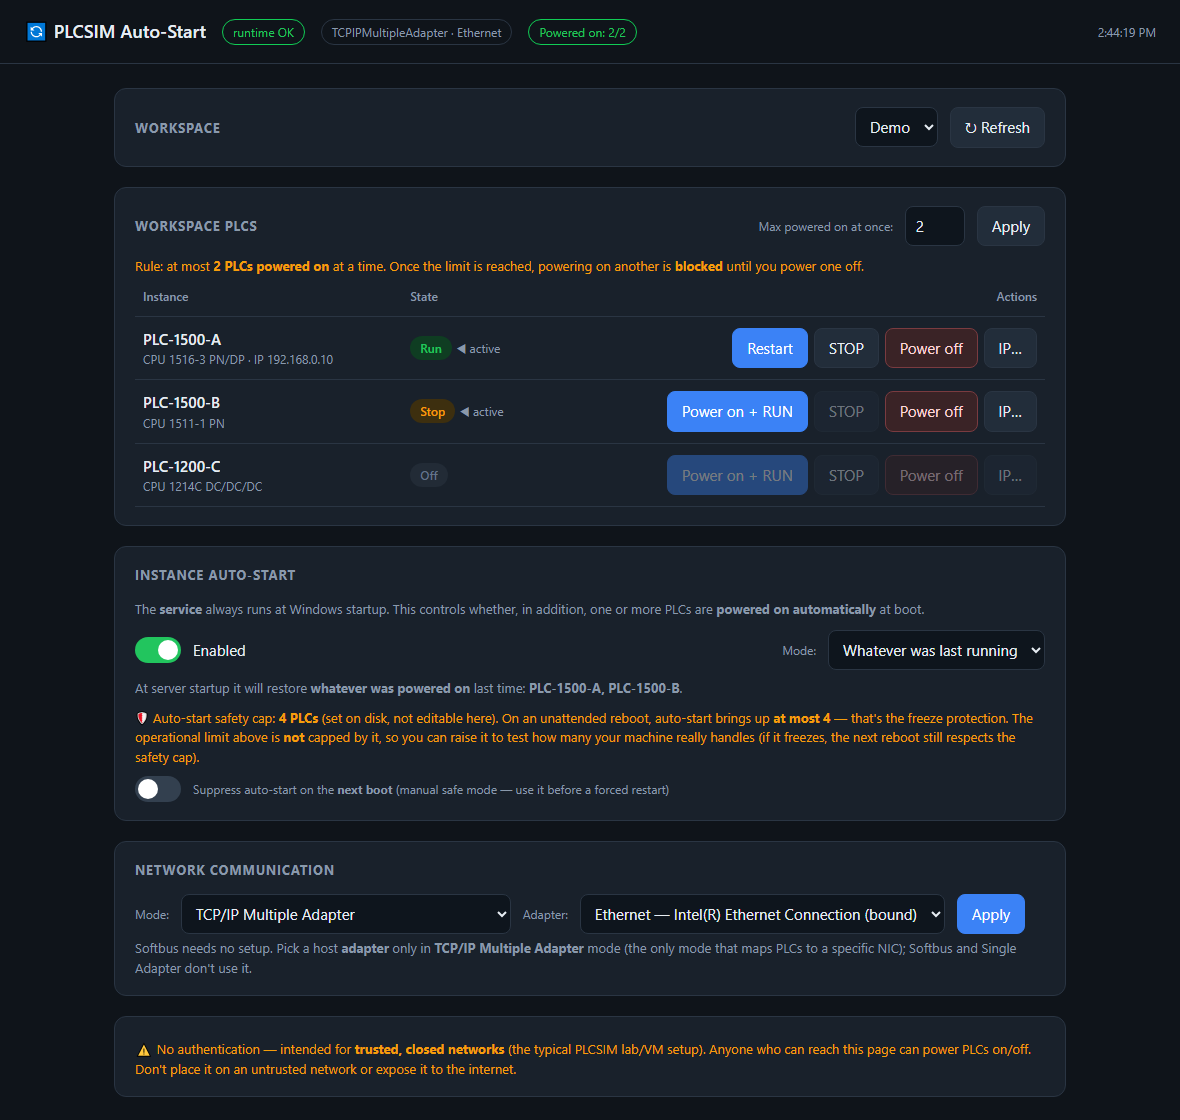
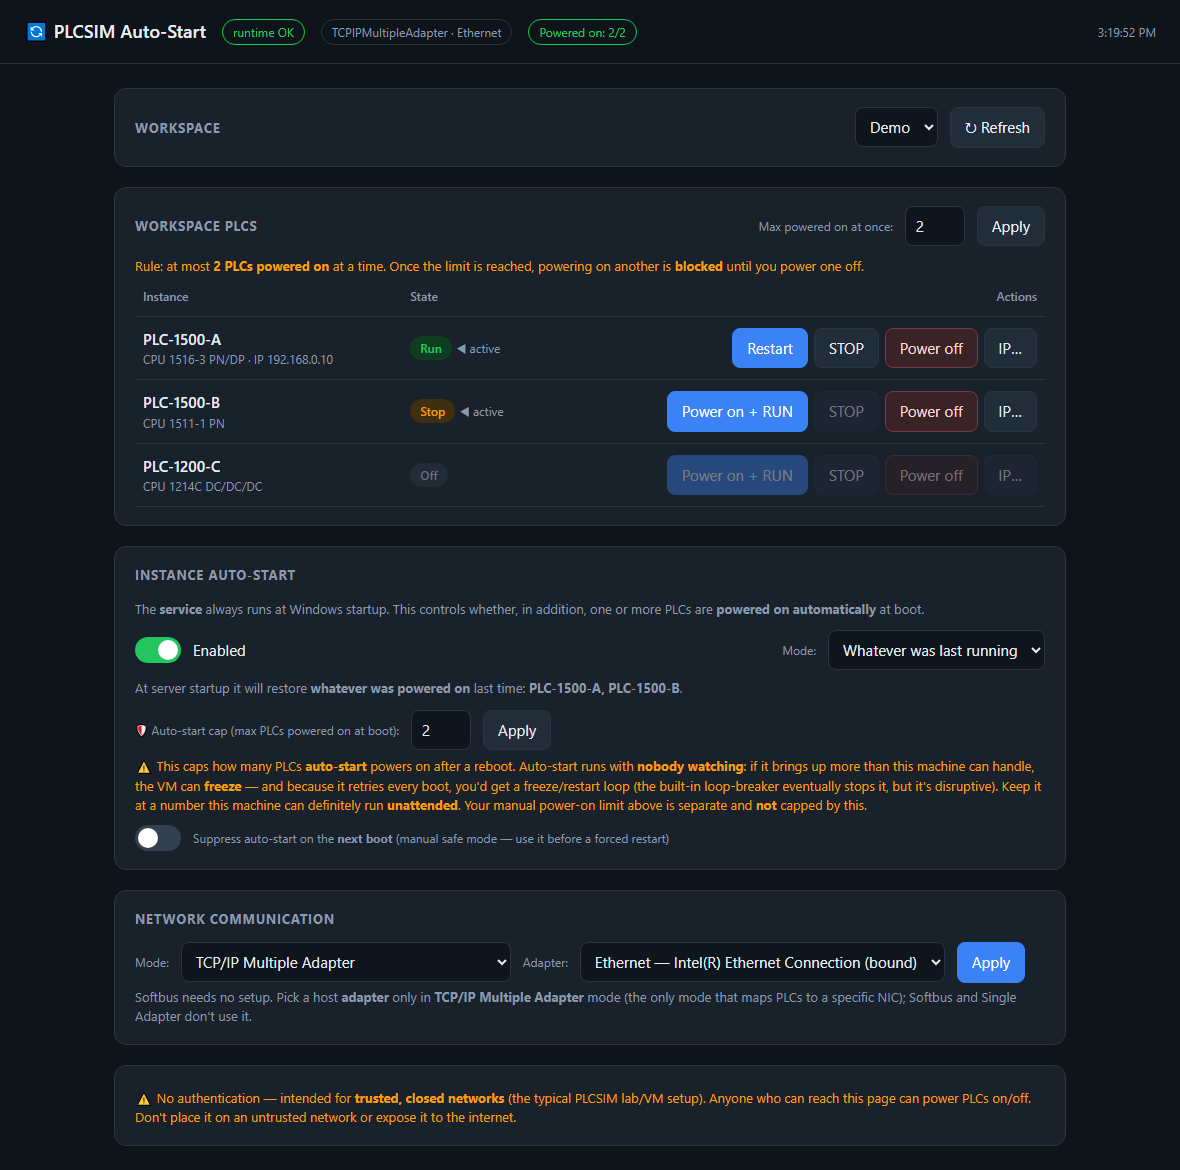
Make the auto-start cap editable in the UI (with a warning explaining the freeze-loop risk); reduce GUI mentions in README to one

diff --git a/wwwroot/index.html b/wwwroot/index.html
@@ -111,7 +111,12 @@
       <select id="asInstance"></select>
     </div>
     <div class="note" id="asNote" style="margin-top:8px"></div>
-    <div class="note warn" id="hardNote" style="margin-top:10px"></div>
+    <div class="row" style="margin-top:12px">
+      <label class="sub">🛡️ Auto-start cap (max PLCs powered on at boot):</label>
+      <input id="hardOn" type="number" min="1" max="20" style="width:60px">
+      <button id="hardSave">Apply</button>
+    </div>
+    <div class="note warn" id="hardNote" style="margin-top:6px"></div>
     <div class="row" style="margin-top:10px">
       <label class="toggle"><input type="checkbox" id="suppressNext"><span></span></label>
       <span class="sub">Suppress auto-start on the <b>next boot</b> (manual safe mode — use it before a forced restart)</span>
@@ -235,7 +240,8 @@ function renderControls(){
   $('#asNote').innerHTML = (mode==='fixed')
     ? 'At server startup it will always start the selected fixed instance.'
     : ('At server startup it will restore <b>whatever was powered on</b> last time'+(last.length?': <b>'+last.join(', ')+'</b>':' (right now: none)')+'.');
-  $('#hardNote').innerHTML = `🛡️ Auto-start safety cap: <b>${hard} PLCs</b> (set on disk, not editable here). On an unattended reboot, auto-start brings up <b>at most ${hard}</b> — that's the freeze protection. The operational limit above is <b>not</b> capped by it, so you can raise it to test how many your machine really handles (if it freezes, the next reboot still respects the safety cap).`;
+  const ho=$('#hardOn'); if(document.activeElement!==ho) ho.value = hard;
+  $('#hardNote').innerHTML = `⚠️ This caps how many PLCs <b>auto-start</b> powers on after a reboot. Auto-start runs with <b>nobody watching</b>: if it brings up more than this machine can handle, the VM can <b>freeze</b> — and because it retries every boot, you'd get a freeze/restart loop (the built-in loop-breaker eventually stops it, but it's disruptive). Keep it at a number this machine can definitely run <b>unattended</b>. Your manual power-on limit above is separate and <b>not</b> capped by this.`;
   if(document.activeElement!==$('#suppressNext')) $('#suppressNext').checked = !!S.suppressNextBoot;
 
   // network
@@ -266,6 +272,11 @@ $('#asEnabled').onchange = saveAutostart;
 $('#asInstance').onchange = saveAutostart;
 $('#asMode').onchange = () => { $('#asInstance').style.display = ($('#asMode').value==='fixed')?'':'none'; saveAutostart(); };
 $('#maxSave').onclick = async () => { const r=await api('limit',{max:Number($('#maxOn').value)||1}); toast(r.message,r.ok); await load(); };
+$('#hardSave').onclick = async () => {
+  const v = Number($('#hardOn').value)||1, cur = S.hardMaxPoweredOn||1;
+  if (v > cur && !confirm(`Raise the auto-start cap to ${v}?\n\nAfter every reboot, auto-start will try to power on up to ${v} PLCs with nobody watching. If that's more than this machine can run unattended, it can freeze on boot. Continue?`)) { $('#hardOn').value = cur; return; }
+  const r = await api('autostart-cap', {max: v}); toast(r.message, r.ok); await load();
+};
 $('#safeClear').onclick = async () => { const r=await api('clear-safemode',{}); toast(r.message,r.ok); await load(); };
 $('#suppressNext').onchange = async e => { const r=await api('safemode',{enabled:e.target.checked}); toast(r.message,r.ok); await load(); };
 $('#netMode').onchange = () => { $('#adapterWrap').style.display = ($('#netMode').value==='TCPIPMultipleAdapter') ? 'inline-flex' : 'none'; };

diff --git a/src/PlcsimAutoStart.cs b/src/PlcsimAutoStart.cs
@@ -10,7 +10,7 @@
 //   * Web UI listing the PLCs of a PLCSIM workspace (Documents\PLCSIM\<workspace>).
 //   * Power on / Run / Stop / Power off from the browser.
 //   * Configurable LIMIT of how many instances may be powered on at once (default 1), with a
-//     separate disk-only HARD safety cap that the web UI can never exceed.
+//     separate auto-start safety cap (editable in the UI, with a warning) for how many auto-start brings up at boot.
 //   * Per-instance auto-start at boot. Mode "last" restores whatever was running before the
 //     last shutdown; mode "fixed" always starts one chosen instance.
 //   * Boot protections against a freeze/restart loop: a boot-attempt counter that only resets
@@ -223,7 +223,7 @@ internal sealed class Config
     public string AutostartMode = "last";   // last = restore the set last powered on | fixed = use AutostartInstance
     public string AutostartInstance = "";
     public int MaxPoweredOn = 1;             // OPERATIONAL limit, editable from the web UI
-    public int HardMaxPoweredOn = 1;         // auto-start safety cap (disk-only): max instances auto-start brings up at boot
+    public int HardMaxPoweredOn = 1;         // auto-start safety cap (editable in UI w/ warning): max instances auto-start brings up at boot
     public int BootFailLimit = 2;            // consecutive non-stabilizing boots before entering SAFE MODE
     public int StableSeconds = 90;           // stability window after auto-start to declare a "clean boot"
     public int StartStaggerMs = 4000;        // pause between power-ons during staggered auto-start
@@ -1008,6 +1008,16 @@ internal sealed class WebServer
                     string msg = "operational power-on limit = " + newMax;
                     if (newMax > _cfg.HardMaxPoweredOn) msg += " (above the autostart safety cap " + _cfg.HardMaxPoweredOn + " - fine for manual testing; auto-start still restores at most " + _cfg.HardMaxPoweredOn + ")";
                     WriteResult(ctx, ActionResult.Good(msg));
+                    return;
+                }
+            case "autostart-cap":
+                {
+                    int newHard = _cfg.HardMaxPoweredOn;
+                    if (body != null && body.ContainsKey("max")) { try { newHard = Convert.ToInt32(body["max"]); } catch { } }
+                    else if (!string.IsNullOrEmpty(q["max"])) int.TryParse(q["max"], out newHard);
+                    if (newHard < 1) newHard = 1;
+                    _cfg.HardMaxPoweredOn = newHard; _cfg.Save();
+                    WriteResult(ctx, ActionResult.Good("Auto-start cap = " + newHard + " (auto-start brings up at most " + newHard + " PLC" + (newHard == 1 ? "" : "s") + " after a reboot)"));
                     return;
                 }
             case "safemode":

diff --git a/README.md b/README.md
@@ -9,10 +9,10 @@ replace it. You still create and configure your virtual PLCs in the Siemens PLCS
 usual; PLCSIM Auto-Start reads that workspace and adds what the GUI doesn't give you:
 
 - 🔄 **Automatic startup** — your PLCs come back up on their own after a server reboot, completely
-  unattended. This is the headline: the Siemens GUI has no way to do it.
+  unattended. This is the headline feature.
 - 🌐 **Remote control from a browser** — power on, RUN, STOP and power off your PLCs from any machine
-  on the network. Drive a simulation host from your own desktop or another VM, with no Siemens GUI and
-  no remote-desktop session required.
+  on the network. Manage a headless simulation host from your own desktop or another VM, with no
+  remote-desktop session needed.
 - 💾 **Persistent by default** — every instance is registered against PLCSIM's persistent storage, so a
   PLC's downloaded program survives a restart. Combined with auto-start, a PLC comes back on its own
   after a reboot — nothing to re-open, nothing to re-download from TIA.
@@ -27,8 +27,9 @@ usual; PLCSIM Auto-Start reads that workspace and adds what the GUI doesn't give
 
 Beyond remote control and auto-start:
 
-- **Power-on limit** (default **1**, freely adjustable in the UI to test capacity) plus a disk-only
-  **hard cap** that bounds the **auto-start** count — the freeze protection for unattended reboots.
+- **Power-on limit** (default **1**, freely adjustable in the UI to test capacity) plus an
+  **auto-start cap** (editable in the UI, with a warning) that bounds how many PLCs auto-start brings
+  up at boot — the freeze protection for unattended reboots.
 - **Per-PLC IP override**, re-applied on every power-on, so a PLC stays reachable on your subnet.
 - **Network mode**: Softbus (zero-config) or TCP/IP mapped to a host adapter.
 - **Installs as a Windows Service** you Start/Stop from `services.msc` / Task Manager. (Because PLCSIM
@@ -85,7 +86,7 @@ the background; you normally never see them.
 
 **Power-on limit + hard cap.** `max_powered_on` (UI-editable) is the operational limit for *manual*
 power-ons — it is **not** capped by the hard cap, so you can raise it to discover how many PLCs your
-machine really handles. `hard_max_powered_on` (disk-only) limits only the **auto-start** count: after
+machine really handles. `hard_max_powered_on` (editable in the UI, with a warning) limits only the **auto-start** count: after
 an unattended reboot, auto-start restores at most that many — so even if a manual test froze the box,
 the next boot stays within the safe number.
 

diff --git a/CHANGELOG.md b/CHANGELOG.md
@@ -14,8 +14,8 @@ First public release.
   the last shutdown) and `fixed` (always start one chosen instance).
 - **Persistent by default**: instances are registered against PLCSIM's native persistent storage, so a
   PLC's downloaded program survives restarts.
-- Configurable **power-on limit** with a separate, disk-only **hard safety cap** that the
-  web UI can never exceed (protects machines that can only run a few instances at once).
+- Configurable **power-on limit** plus a separate **auto-start safety cap** (editable in the UI,
+  with a warning) that bounds how many PLCs auto-start brings up at boot.
 - **Boot protections** against a freeze/restart loop:
   - boot-attempt counter that enters SAFE MODE after N non-stabilizing boots,
   - a "clean boot" check gated on repeated self `/health` probes (detects a soft freeze where

diff --git a/docs/CONFIGURATION.md b/docs/CONFIGURATION.md
@@ -30,7 +30,7 @@ only while the service is **stopped**. Start from `appconfig.example.txt`.
 | Key | Default | Meaning |
 |-----|---------|---------|
 | `max_powered_on` | `1` | Operational limit for **manual** power-ons, editable from the UI. **Not** capped by the hard cap — raise it to test how many PLCs the machine handles. |
-| `hard_max_powered_on` | `1` | Safety cap for **auto-start only** (disk-only, not editable from the UI): the max number of PLCs auto-start brings up at boot. After an unattended reboot, auto-start restores at most this many — so a manual test that froze the box still reboots safely. Raise it to how many the machine can definitely run unattended. |
+| `hard_max_powered_on` | `1` | Safety cap for **auto-start only**: the max number of PLCs auto-start brings up at boot. Editable in the UI (with a warning) or here. After an unattended reboot, auto-start restores at most this many — so a manual test that froze the box still reboots safely. Raise it to how many the machine can definitely run unattended. |
 
 ## Boot protections
 